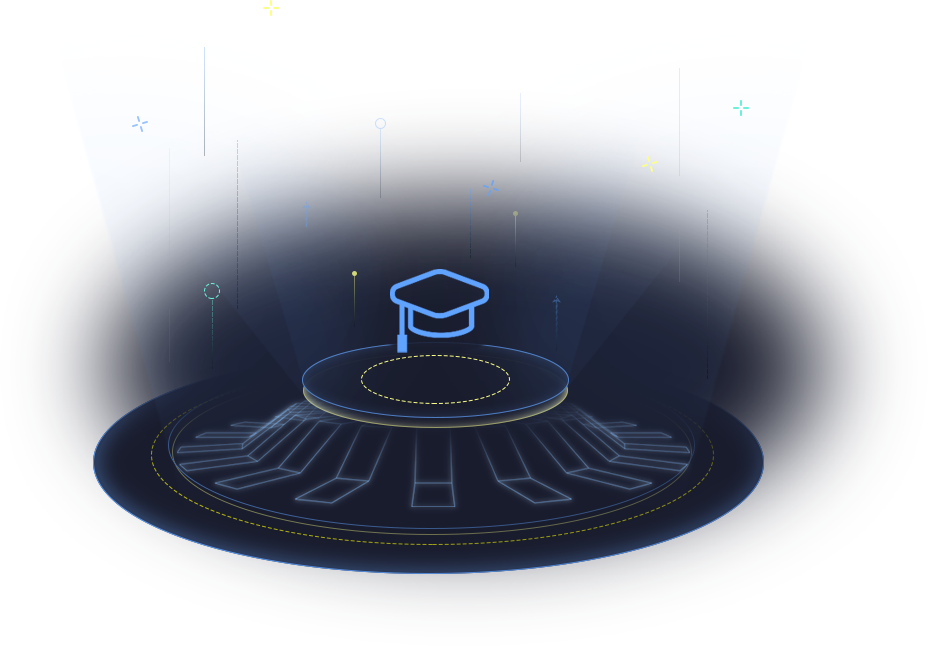
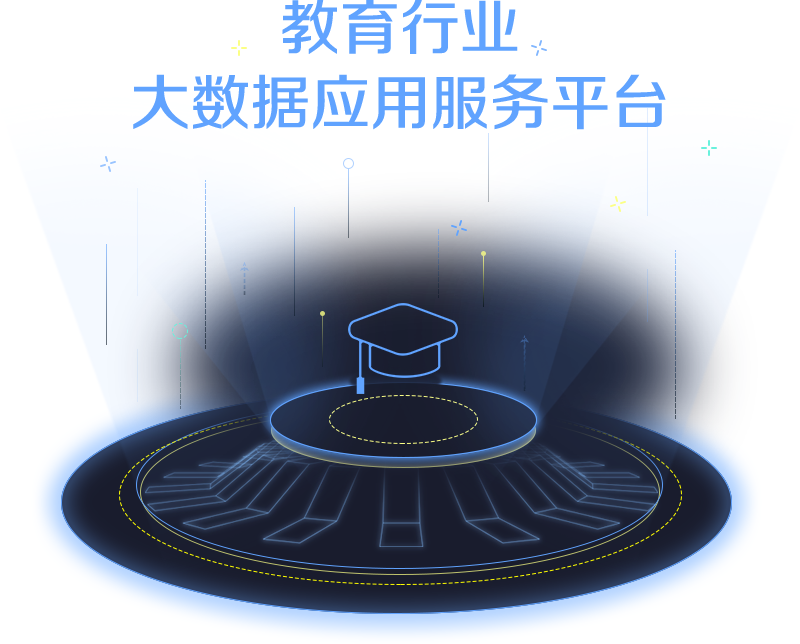
修改登录页图片

diff --git a/edu/src/views/login/login.vue b/edu/src/views/login/login.vue
@@ -13,12 +13,12 @@
         </header>
         <div class="wrapper">
             <div class="left-banner">
-                <div class="text-center">
-                    <img src="./images/trade.png" alt="教育行业">
-                </div>
-                <div class="text-center">
-                    <img src="./images/pru.png" alt="大数据应用服务平台">
-                </div>
+               <!--  <div class="text-center">
+                  <img src="./images/trade.png" alt="教育行业">
+               </div>
+               <div class="text-center">
+                  <img src="./images/pru.png" alt="大数据应用服务平台">
+               </div> -->
                 <img class="banner" src="./images/data.png" />
             </div>
             <router-view></router-view>
@@ -210,7 +210,8 @@
         .left-banner{
             position: relative;
             display: inline-block;
-            text-align: left;
+            margin-top: 20px; 
+           // text-align: left;
             .text-center{
                 width:100%;
                 position: absolute;
@@ -221,8 +222,8 @@
                   }
             }
             img.banner{
-                width: 835px;
-                height: 581px;
+                width: 600px;
+              //  height: 581px;
             }
         }
         .wrapper{
